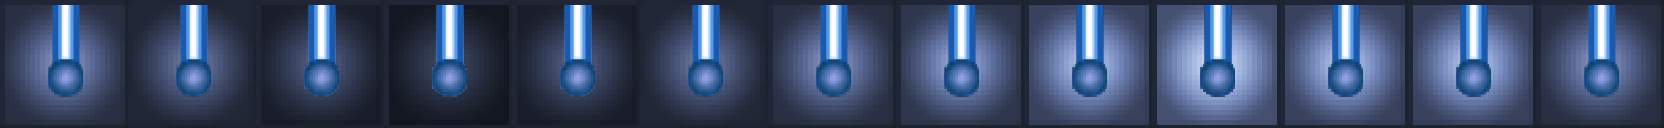
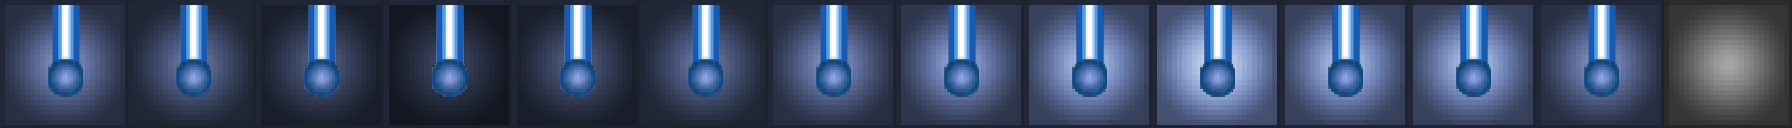
El combinador de magias tiene en cuenta las desbloqueadas

diff --git a/docs/MagicCombinator.js b/docs/MagicCombinator.js
@@ -5,6 +5,7 @@ export default class MagicCombinator extends Phaser.Scene{
         this.wind = false;
         this.fire = false;
         this.water = false;
+        this.unlockedMagics=1;
     }
     preload(){
         this.load.spritesheet('windB','Assets/AnimViento.png',{frameWidth:128,frameHeight:128});
@@ -68,7 +69,29 @@ export default class MagicCombinator extends Phaser.Scene{
             frames: this.anims.generateFrameNumbers('windB', { start: 0, end: 12 }),
             frameRate: 10,
             repeat: -1
+          });this.anims.create({
+            key: 'windNeutral',
+            frames: this.anims.generateFrameNumbers('windB', { start: 13, end: 13 }),
+            frameRate: 10,
+            repeat: -1
+          });this.anims.create({
+            key: 'fireNeutral',
+            frames: this.anims.generateFrameNumbers('fireB', { start: 13, end: 13 }),
+            frameRate: 10,
+            repeat: -1
+          });this.anims.create({
+            key: 'waterNeutral',
+            frames: this.anims.generateFrameNumbers('waterB', { start: 13, end: 13 }),
+            frameRate: 10,
+            repeat: -1
           });
+          if(this.unlockedMagics==1)
+            {
+                this.waterB.play('waterNeutral');
+                this.windB.play('windNeutral');
+            }
+            else if(this.unlockedMagics==2)
+                this.windB.play('windNeutral');
         //callbacks
         this.close.on('pointerdown',()=>{
             this.scene.sleep('Combinator');
@@ -109,13 +132,16 @@ export default class MagicCombinator extends Phaser.Scene{
 
         });
         this.windB.on('pointerdown',()=>{
-            if(!(this.fire && this.water))
-                this.wind =! this.wind;
-            if(this.wind)
-                this.windB.play('windB');
-            else    
-                this.stopPlaying(this.windB);
-        });
+           if(this.windB.anims.getCurrentKey()!=='windNeutral')
+                {
+                    if(!(this.fire && this.water))
+                    this.wind =! this.wind;
+                    if(this.wind)
+                        this.windB.play('windB');
+                    else    
+                        this.stopPlaying(this.windB);
+                }       
+            });
         this.fireB.on('pointerdown',()=>{
             if(!(this.wind && this.water))
                 this.fire =! this.fire;
@@ -127,18 +153,26 @@ export default class MagicCombinator extends Phaser.Scene{
                     }
         });
         this.waterB.on('pointerdown',()=>{
-            if(!(this.fire && this.wind))
-                this.water =! this.water;
-            if(this.water)
-                this.waterB.play('waterB');
-            else 
+            if(this.waterB.anims.getCurrentKey()!=='waterNeutral')
                 {
-                    this.stopPlaying(this.waterB);
-                }
+                if(!(this.fire && this.wind))
+                    this.water =! this.water;
+                if(this.water)
+                    this.waterB.play('waterB');
+                else 
+                    {
+                        this.stopPlaying(this.waterB);
+                    }
+                }        
         });
     }
     stopPlaying(animObj){
         animObj.anims.restart();
         animObj.anims.stop();
+    }
+    unlockMagic(){
+        this.unlockedMagics++;
+        if(this.unlockedMagics>3)
+            this.unlockedMagics=3;
     }
 }

diff --git a/docs/book.js b/docs/book.js
@@ -15,6 +15,8 @@ EndLevel(){
         {
             this.player.UnlockMagic();
             this.scene.CreateExit();
+            this.combinator = this.scene.scene.get('Combinator');
+            this.combinator.unlockMagic();
             this.destroy();
         }   
 }
